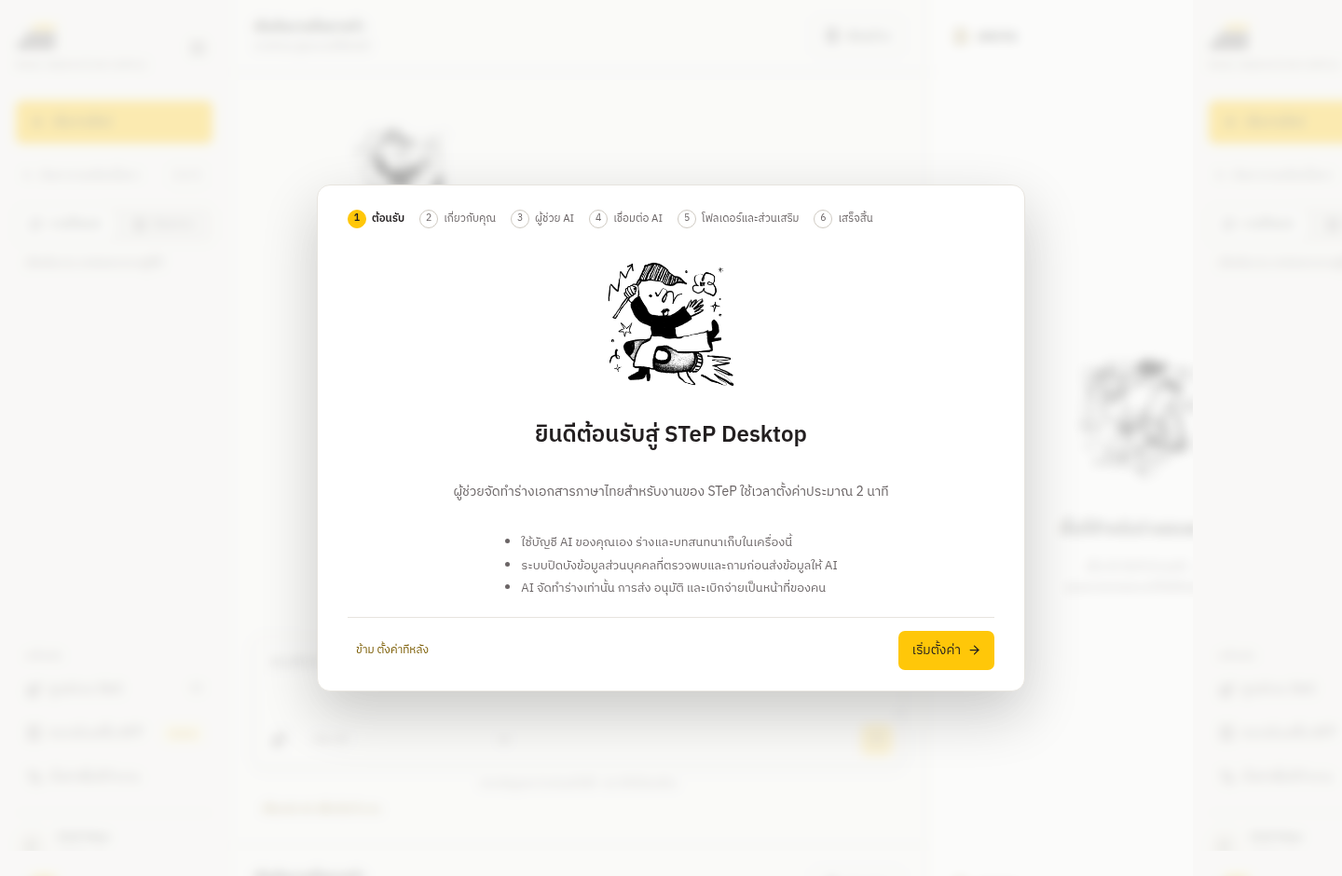
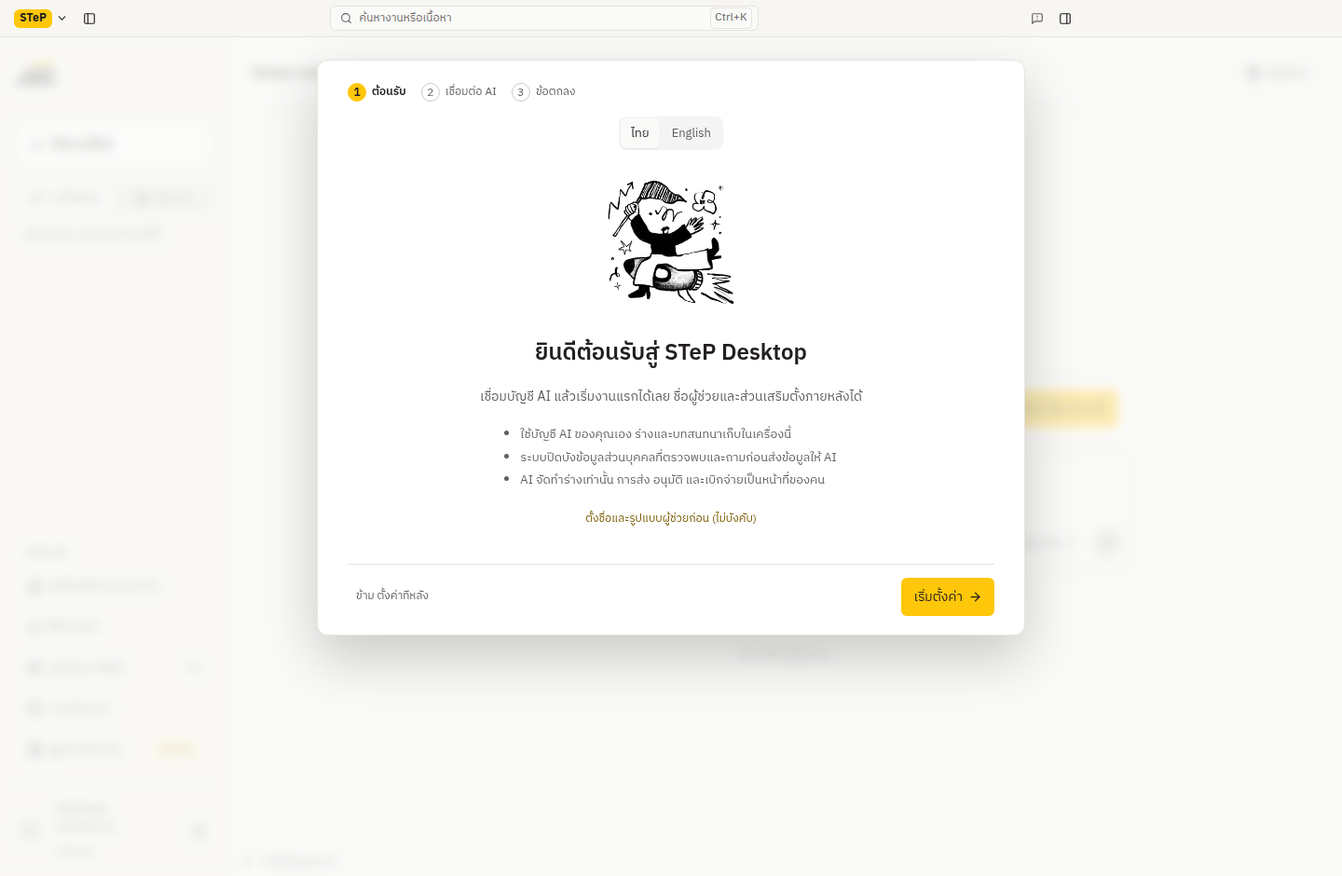
Refresh Desktop guides, release status and screenshots

diff --git a/docs/progress.md b/docs/progress.md
@@ -8,23 +8,16 @@ _Last updated: 2026-11-24_
 
 ## In flight
 
+- **Desktop README and guide refresh (2026-11-24)**. Replaced the tracked employee screenshots with synthetic v0.6.42 captures. The employee guides now describe supported GitHub installers, Microsoft Store updates and long-task recovery. The MIS register remains the dated source extract and current revisions are checked in MIS.
+
 - **Desktop installer preflight (2026-11-24)**: GitHub Actions checks Authenticode and Defender availability, verifies the Mac app and DMG trust results, and checks the updater metadata and artifact hashes before publishing the same files. A strict run requires trusted installers on both platforms. IT can enable it once signing and an active Defender runner are available.
 
 - **Windows MSIX for Microsoft Store (2026-11-24)**. The Windows x64 package built with the STeP Desktop Partner Center identity and passed installation, activation and synthetic legacy-profile checks. Windows App Certification Kit reported warnings. The package has been uploaded to the first Store draft. Store certification, a staff migration pilot and Entra setup for automated update submission remain open. See [Desktop distribution](desktop-development.md#windows-msix-for-microsoft-store).
 
-- **Desktop v0.6.42 prepared (2026-11-24)**: combines #402 and #403. The working line holds each label, the thinking panel keeps its stage titles, and partial headings and drafted text stay steady across tool turns. Four pencil marks follow thinking, reading, searching or tools, and writing. The changes have synthetic Electron coverage. Follow-up: verify a live Gemini run on Windows.
-
-- **Waiting marks per kind of work (2026-11-23, owner picked 1, 3, 9, 10 of ten pencil designs)**: the scribble beside the working line now follows the steady label (`src/waiting-kind.ts`): think = three pencil loops, read Skill/document = connect the dots, search/tool = inchworm, write = handwriting. Reduced motion keeps a 3x slower trace. Stacked on the flicker fix (needs its steady label). Design page: https://claude.ai/artifact/CeGFRsqKrbcvLvnUMZgfM6. Waits on the owner: review.
-- **Thinking panel and status line flicker (2026-11-23, owner report on v0.6.40; merged with the 0.6.41 "AI คิด" stages)**: while the AI prepared an answer the working line swapped "กำลังเตรียมคำตอบ" / "กำลังเขียนคำตอบ" / the tool stage within a second on every tool turn, the last stage title was hidden from both the panel and the line, a Gemini heading still arriving showed raw `**`, and the drafting mode cleared streamed words at every tool turn. Fixed in the renderer (`useSteadyLabel` holds a label 1.5 s, the panel hides the last title only while the line names it, `settledNotes`) and main (per-turn status carries `turn`). New `test/thinking-steady-smoke.mjs` records every frame in chat and drafting modes. Waits on the owner: review, then ship in the next Desktop release.
-- **Desktop v0.6.41 prepared (2026-11-23)**: combines #308, #319, #371, #399 and #400 after #396 landed. Includes durable long-task recovery, the context gauge, Antigravity quota reporting and overflow retry, immediate answer correction, AI work stages and the Windows development icon fix. Follow-up: verify the long-chat recovery and quota displays against the employee’s Antigravity client. Harness remains 0.7.7.
-
 - **"คำตอบนี้ต้องแก้" answers again and remembers (2026-11-23, owner report)**: the owner pressed "needs fixing" on a generated AI prompt, asked again and got the same prompt. Cause: the note only became a pending memory proposal (used nowhere until confirmed in the memory page), no new answer was written, and the AI was never told the answer was rejected. Now the dialog's button is "แก้คำตอบ": the AI answers again at once in the same task (same Skill and mode) with the note, and with "จำไว้ใช้กับคำขอแบบนี้ครั้งถัดไป" (ticked by default) the note is saved as a confirmed feedback memory that names the request it corrects (a request with personal data is left out; the note alone is kept). Older callers without `remember` keep the proposal path. The title bar also has a "แจ้งปัญหา / เสนอแนะ" icon beside the right-panel toggle. Tested: `phase3-memory-sessions.test.ts`, `chat-smoke`. Not changed: lesson drafting still needs confirmation in the lesson inbox; background review still every 10 turns. Waits on the owner: review with the before/after screenshots, then a real-model check that the second answer actually follows the note.
 
-
-- **Desktop v0.6.40 prepared (2026-11-23, owner asked to release)**: ships #397 (verified organization account at the Skill/feedback intake). Harness remains 0.7.7. Publish with `desktop-release.yml` on `main` with `publish=true` after merge and green post-merge CI. After staff update, the owner deploys the new Apps Script version (code and permission already in place).
 - **Skill/feedback intake requires a verified organization account (2026-11-23, owner asked after the Codex PR review)**: the Apps Script intake (`scripts/skill-intake`) was public ("Anyone"), trusted the typed sender name and had only a shared 200/day quota, so outsiders could spoof senders or use the quota up. Now Desktop sends the Google ID token of the connected organization account (`google.organizationIdentity`, same as "AI ขององค์กร") and refuses to send without one (`*_SUBMIT_SIGN_IN`); the script verifies it with Google tokeninfo (client ID, `hd` step.cmu.ac.th, verified email, expiry) after free local checks, records the verified address (feedback only when the name is sent), keeps per-account daily quotas (5 Skills / 20 feedback) under a salted hash, caps tokeninfo calls, validates findings and writes every cell as text. `appsscript.json` pins scopes. Tested with stand-ins only (`test/skill-intake.test.js`, `desktop/test/skill-submit.test.ts`). **Waits on the owner**: after the next Desktop release, paste `Code.gs` + `appsscript.json`, run one function to grant "external request", deploy a new version (README "อัปเดตเป็นรุ่นที่ยืนยันบัญชี"); older apps cannot send after that. Recommended: move the sheet to a dedicated intake account. Not yet tried against real Google.
 - **Developer knowledge maintenance (2026-11-23)**. Added a developer-side Skill and an offline metadata preview for the MIS, Gmail and Sheets intake design. Review packets surface revision conflicts, withdrawals and partial reads before publication. The developer Skill records the source audit and approval flow. IT needs to verify Google/MIS identities, live settings and audit logs before configuring connectors. Snapshot builder added the same day (owner asked): `snapshot.mjs --mis` reads an MIS extract or the published register (extract → register round-trips to the same snapshot), and `library-check.mjs` compares the 13 transcribed QP/QM documents with MIS REV and dates (all match the 2026-10-10 register). Gmail and Sheets readers are still not built (`not-configured`).
-- **Desktop v0.6.39 prepared (2026-11-22, owner asked to merge all and release)**: one combined PR merges #391 (expired Claude sign-in), #393 (BV travel reason), #392 (case chat picker/attachments, case delete, quieter claims page), #394 (claims-case-expert Skill, draft pending AFP) and the OpenCode phases #387–#390 (tool repair, checkpoint compaction, in-loop answer review, native tool calls behind `nativeToolCalls`, off). Harness remains 0.7.7. Publish with `desktop-release.yml` on `main` with `publish=true` after merge and green post-merge CI.
 - **Claims page redesign and case delete (2026-11-22, owner asked)**: the owner found no way to delete a claims case and the side panels too wordy. A case row now has a delete icon on hover/focus with an inline confirm; `receiptPacketDelete` removes the case, its app-owned file copies and its case chat (refused while that chat runs; originals untouched, covered in `receipt-packet.test.ts` and `claim-case-chat-smoke`). The case list is one line per case (name, category mark, file count), the case name edits in place at the chat head with a check for saved, and the three steps are one underlined tab row. Smokes: claim-case-chat, case-files, claim-interview, afp-evidence, receipt-packet, afp-payment-voucher, receipt-handoff. Waits on owner review with the before/after screenshots.
 - **Case chat AI picker and attachments (2026-11-22, owner asked)**: the ผู้ช่วยเบิกจ่าย case chat has its own account/model/effort picker (per case session, `src/case-ai-picker.tsx`) and attaches files and pictures for the AI through the normal `attach` checks; the host no longer refuses attachments on claim-case sends. Tested with `claim-case-chat-smoke` (model switch reaches the AI, attached text goes with the question). Not yet tried with a real provider or a picture on a vision model.
 - **เหตุผลการเดินทาง หมวด BV (2026-11-22, owner asked)**: งานพัสดุ AFP ประกาศ 20 พ.ย. 2569 ขอให้เหตุผลการเดินทางหมวด BV ครบ 5 ส่วน (ว 119 จ้างเหมารถตู้). New registered document `docs/knowledge/afp-bv-travel-reason.md`; the claims interview asks the five parts for a vehicle hire and drafts the reason into the purpose; the details step and the export step warn on a short or incomplete reason (export still allowed); the case chat rule asks missing parts. Waits on the owner: review, then Webapp pack re-import (`harness:import`) so the Webapp knowledge gets the document. Open question for AFP: three of AFP's own five examples lack a part (no route in 1, no date in 4–5); the app flags those parts.
@@ -39,7 +32,11 @@ _Last updated: 2026-11-24_
 
 ## Latest release
 
-- **Desktop v0.6.38 prepared (2026-11-20, owner asked to merge #384 and release)**: ships merged #372 (long-task reliability), #379–#383 (receipt finance phase 1, claim interview, packet attach fixes, ผู้ช่วยเบิกจ่าย case chat, several files read and typed in the case chat) and #384 (optional Typhoon OCR V2 0.8B for Thai scans, numbers checked by PaddleOCR). Harness remains 0.7.7. Publish with `desktop-release.yml` on `main` with `publish=true` after this PR and post-merge CI pass; verify both update feeds and installer digests. Open after release: the ~1 GB Typhoon install and speed on a real Windows staff PC.
+- **Desktop v0.6.42 published (2026-11-24)**. Waiting marks follow thinking, reading, searching or writing. Status labels and streamed draft text stay steady across tool turns. Synthetic Windows and macOS checks passed. A live Gemini run on Windows remains open. [Release](https://github.com/iisara555/STeP-AI-Harness/releases/tag/desktop-v0.6.42)
+- **Desktop v0.6.41 published (2026-11-23)**. Adds long-task recovery, the context gauge, Antigravity quota reporting and overflow retry, immediate answer correction and the Windows development icon fix. Live Antigravity checks on the employee PC remain open. [Release](https://github.com/iisara555/STeP-AI-Harness/releases/tag/desktop-v0.6.41)
+- **Desktop v0.6.40 published (2026-11-23)**. The feedback and Skill intake requires a verified organization account. Deployment of the Apps Script and a live Google check are tracked above. [Release](https://github.com/iisara555/STeP-AI-Harness/releases/tag/desktop-v0.6.40)
+- **Desktop v0.6.39 published (2026-11-22)**. Includes AFP case chat and attachments, the BV travel-reason guide, the draft case Skill, Claude sign-in recovery and OpenCode phases 1–4. Live model and AFP review are tracked above. [Release](https://github.com/iisara555/STeP-AI-Harness/releases/tag/desktop-v0.6.39)
+- **Desktop v0.6.38 published (2026-11-20)**. Includes long-task reliability work, the AFP receipt flow and optional Typhoon OCR. The optional OCR setup and its performance on a staff Windows PC remain open. [Release](https://github.com/iisara555/STeP-AI-Harness/releases/tag/desktop-v0.6.38)
 
 - **Desktop v0.6.37 prepared (2026-11-18, owner requested release)**: ships merged #375 (compact and retry long full-context Antigravity messages) and #376 (document-form filling examples). Harness remains 0.7.7. Publish with the Desktop installer workflow from `main` after this release PR and post-merge CI pass. Verify both update feeds and published installer digests. Live Antigravity reproduction on the employee device remains open.
 
@@ -113,7 +110,7 @@ _Last updated: 2026-11-24_
 - **Desktop v0.6.2** (2026-10-13) — combined release of PR #158 (สื่อภายใน page, copy-only, with layout preview) and PR #154 (icon rail sidebar with animated icons, retired near-copy avatars, OCR busy reply). Windows x64 and macOS Apple silicon; Harness **0.7.7**.
 - **Desktop v0.5.39** (2026-10-11) — published from PR #135 (`7f33d12`): managed/local Dev mode gates for Claude plan access, bounded cold fallback and idle prewarming cleanup. Windows x64 and macOS Apple silicon installers are published; Harness **0.7.7**. Intel Macs stay on 0.5.35. The audit fixes below are pull requests and are not in this release.
 
-## Current release and remaining acceptance (2026-11-03)
+## Historical acceptance record (2026-11-03)
 
 The owner-authorized integration and publication are complete. TOR #298 and integration #302 preserve the heads of #297 (REA), #299 (documents from chat), #300 (chat/clipboard) and #301 (Windows startup). H1-H3 are included in published 0.6.27. Historical implementation notes below are not a list of unstarted tasks.
 

diff --git a/docs/README.md b/docs/README.md
@@ -19,6 +19,8 @@
 | เอกสาร | ใช้เมื่อ |
 | --- | --- |
 | [คู่มือ STeP Desktop](../desktop/README.md) | ติดตั้ง เชื่อมต่อ AI ทำงาน อัปเดต และถอนการติดตั้ง |
+| [การแจกแอปและตรวจตัวติดตั้ง](desktop-development.md#distribution) | ผู้ดูแลสร้าง EXE, DMG หรือ MSIX ตรวจลายเซ็น และเตรียมส่ง Microsoft Store |
+| [งานยาวและการกลับมาทำต่อ](desktop-long-tasks.md) | ดูการย่อบริบทและวิธีทำงานต่อเมื่อแอปหรือบริการ AI สะดุด |
 | [คู่มือการใช้งาน STeP AI สำหรับพนักงาน](employee-guide.md) | ใช้ STeP Skills ผ่านโปรแกรม AI ที่มีอยู่ |
 | [ติดตั้งโปรแกรม AI](ai-app-setup.md) | เครื่องยังไม่มีโปรแกรม AI สำหรับเปิดโฟลเดอร์ STeP AI |
 | [เชื่อม Gemini ผ่าน Antigravity](antigravity-connect-th.md) | เชื่อมบัญชี Google ใน STeP Desktop |
@@ -27,7 +29,7 @@
 | [กล่องบทเรียน (Learning Inbox)](desktop-learning.md) | ตรวจและอนุมัติบทเรียนที่ AI เสนอจากงานจริง |
 | [ตรวจไฟล์ก่อนแนบให้ AI](privacy-preflight.md) | ตรวจข้อมูลอ่อนไหวก่อนแนบเอกสาร |
 | [STeP Desktop managed policy](desktop-policy.md) | ผู้ดูแลกำหนดบริการ AI ฟังก์ชัน และการตรวจข้อมูลให้ทั้งเครื่อง |
-| [Google Workspace connector](google-workspace-connector.md) | เชื่อม Google Workspace (เลือกใช้ แยกจากแอป) |
+| [การเชื่อม Google Workspace ใน Desktop](vault-workspace-implementation.md) | เชื่อมบัญชีงาน เลือกบริการ และดูสิทธิ์ที่ผู้ดูแลตั้ง |
 | [Pilot 22 กันยายน 2569](pilot-runbook.md), [Pilot Operations](pilot-operations.md) | ดำเนินการทดลองใช้กับพนักงาน |
 | [เริ่ม Demo AFP](afp-demo-start.md), [คู่มือเดิน Demo](afp-demo-run-sheet.md), [แนวคิดสาธิต](afp-demo-concepts.md), [ทะเบียนแหล่งอ้างอิงสาธิต](afp-demo-source-register.md) | สาธิตงาน AFP ด้วยข้อมูลตัวอย่าง |
 
@@ -53,11 +55,11 @@
 
 **STeP Desktop**
 
-- [แบบระบบตรวจใบเสร็จใหม่](receipt-review-redesign.md) — ต้นแบบ 3 คำตอบ, preprocessing/grouping และเกณฑ์ benchmark; [บริการ Gemini OCR กลาง](../gateway/receipt/README.md) เพิ่มใน source แล้ว ยังไม่ deploy
+- [แบบระบบตรวจใบเสร็จใหม่](receipt-review-redesign.md) — ต้นแบบ 3 คำตอบ, preprocessing/grouping และเกณฑ์ benchmark; [บริการ Gemini OCR กลาง](../gateway/receipt/README.md) เอกสารตั้งค่าบริการและตรวจความพร้อมก่อนเปิดใช้
 - [Vault and Google Workspace implementation](vault-workspace-implementation.md) - employee flow, managed configuration, operation limits, local verification and remaining live/packaged gates
 
-- [Vault design handoff — username/password และ API key](desktop-vault-design.md) — แบบเสนอและแผน P0–P3 สำหรับพัฒนาต่อ ยังไม่มีฟีเจอร์ในแอป
-- [Employee Google Workspace connection and service access](desktop-google-workspace-design.md) - account connection, Google service capabilities, OAuth/admin controls and G0-G3 acceptance; design only
+- [Vault design handoff — username/password และ API key](desktop-vault-design.md) — บันทึกแบบเสนอและแผน P0–P3 ข้อมูลการใช้งานปัจจุบันอยู่ในคู่มือการติดตั้ง Vault ด้านบน
+- [Employee Google Workspace connection and service access](desktop-google-workspace-design.md) - แบบเสนอและเกณฑ์ทดสอบ G0–G3 ดูการใช้งานที่ส่งมอบในคู่มือการเชื่อม Google Workspace ด้านบน
 - [Governed tool loop](desktop-tool-loop.md), [Native workflows](desktop-workflows.md), [Context, memory and sessions](desktop-context-memory.md)
 - [Coordinator, scheduled drafts, MCP and autopilot](desktop-automation.md), [Agent Browser](desktop-browser-agent.md), [Interface language](desktop-i18n.md)
 - [Providers, command surfaces and LINE gateway](desktop-phase5.md), [Scoped consent](desktop-phase6.md), [Security review 2026-10-06](desktop-security-review.md)
@@ -67,7 +69,7 @@
 
 - [Pilot 30 งาน](pilot-30-task-test.md), [ผลฝั่งโมเดลรอบ 1](pilot-30-model-side-results-2026-09-19.md), [Pilot Readiness Audit](pilot-readiness-audit.md)
 - [Tool usability evaluation](tool-usability-eval.md), [ประเมิน Office Skills ด้วย ChatGPT/Codex](cloud-model-eval-setup.md)
-- [UX audit 2026-10-01](ux-audit-2026-10-01.md), [ผลแก้ UX audit](ux-audit-fixes-2026-10-01.md), [UI review 0.5.31](desktop-ui-review-0.5.31.md), [Runtime structure review](refactor-review.md)
+- [UX audit 2026-10-01](ux-audit-2026-10-01.md), [ผลแก้ UX audit](ux-audit-fixes-2026-10-01.md), [บันทึกการตรวจ UI รุ่น 0.5.31](desktop-ui-review-0.5.31.md), [Runtime structure review](refactor-review.md)
 - [Graphify developer workflow](graphify-development.md), [OpenHarness handoff](openharness-handoff.md), [OpenHarness parity](openharness-parity.md)
 
 **ลิขสิทธิ์ของบุคคลที่สาม:** [ภาพตราครุฑ](third-party-notices/thai-garuda.md), [Claude Thai Skills (MIT)](third-party-notices/claude-thai-skills-MIT.txt), [โลโก้ผู้ให้บริการ AI (Lobe Icons, MIT)](third-party-notices/lobe-icons-MIT.txt)

diff --git a/SUPPORT.md b/SUPPORT.md
@@ -1,5 +1,14 @@
 # STeP AI Support
 
+## STeP Desktop
+
+- **แจ้งปัญหาจากในแอป** เปิด **ช่วยเหลือ → แจ้งปัญหา / เสนอแนะ** เมื่อฟังก์ชันนี้เปิดไว้และเข้าสู่ระบบบัญชีงานแล้ว หรือติดต่อผู้ประสานงานทีมผ่านช่องทางภายใน
+- **ติดตั้งหรืออัปเดตไม่สำเร็จ** ดู [วิธีติดตั้งและอัปเดตตามช่องทาง](desktop/README.md#เริ่มใช้งาน) ส่งชื่อไฟล์ รุ่นแอป ระบบปฏิบัติการ และข้อความที่พบให้ผู้ประสานงานทีม
+- **Windows แสดงคำเตือนหรือไฟล์หาย** เทียบกับลิงก์ที่ผู้ดูแลแชร์ หากไฟล์หาย ให้เปิด **Windows Security → Virus & threat protection → Protection history** แล้วแจ้งชื่อรายการที่ตรวจพบให้ IT
+- **Mac แจ้งว่าตรวจสอบผู้พัฒนาไม่ได้** เทียบไฟล์กับลิงก์ที่ผู้ดูแลแชร์และอ่าน **อ่านก่อนเปิดครั้งแรก.html** ใน DMG ของรุ่นที่ใช้ หากข้อความต่างจากคู่มือ ให้แจ้งผู้ประสานงานทีม
+
+## STeP Skills และ Harness
+
 **สถานะ:** ใช้งานได้ตั้งแต่วันแรกของ Pilot
 
 **ผู้ดูแลกลาง:** ยังไม่ได้แต่งตั้ง
@@ -30,7 +39,7 @@
 ถ้าเปิด Terminal ได้ ใช้ทางลัดนี้แทนได้ โดยเปลี่ยน path ให้ตรงกับที่แตกไฟล์ไว้:
 
 ```text
-xattr -dr com.apple.quarantine ~/Downloads/STeP-AI-Pilot-v0.7.6
+xattr -dr com.apple.quarantine ~/Downloads/STeP-AI-Pilot-v0.7.7
 ```
 
 คำสั่งนี้ลบเฉพาะแฟล็ก quarantine ของไฟล์ในโฟลเดอร์ชุดติดตั้ง ไม่ได้ติดตั้งอะไรเพิ่ม
@@ -50,7 +59,7 @@ Apple ถอดวิธีนี้ออกตั้งแต่ macOS 15 (Seq
 
 1. ภาพหน้าจอข้อความผิดพลาด
 2. ระบบปฏิบัติการ: Windows หรือ macOS
-3. รุ่น STeP AI ที่กำลังติดตั้ง เช่น `v0.7.6`
+3. รุ่น STeP AI ที่กำลังติดตั้ง เช่น `v0.7.7`
 4. ขั้นตอนที่ทำก่อนเกิดปัญหา 1–2 บรรทัด
 5. ถ้าระบบเปิดได้ ให้แนบผลจาก `step-ai doctor --employee`
 

diff --git a/docs/knowledge/README.md b/docs/knowledge/README.md
@@ -20,7 +20,7 @@
 | การเงินและพัสดุ (AFP) | [แนวปฏิบัติงาน AFP](afp-operational-circulars.md) | Lead Time, หมวดค่าใช้จ่าย, E-Signature |
 | | [ลำดับชั้นระเบียบการเงินและพัสดุ](afp-regulation-hierarchy.md) | ระเบียบใดใช้ก่อนหลัง (ฉบับทำงาน ไม่ใช่ตัวระเบียบ) |
 | | ระเบียบปฏิบัติงาน AFP | [QP-AF-001](qp-af-001.md) จัดซื้อจัดจ้าง · [QP-AF-002](qp-af-002.md) ตรวจสอบและจำหน่ายพัสดุ · [QP-AF-003](qp-af-003.md) ยืมเงินและสำรองจ่าย · [QP-AF-004](qp-af-004.md) จ่ายเงิน |
-| ระบบคุณภาพ (ISO 9001) | [ทะเบียนเอกสารระบบคุณภาพ ISO จาก STeP MIS](mis-iso-document-register.md) | เลขที่ REV วันที่บังคับใช้ และสถานะของ QM / QP / WI / FM / SD ทุกทีม (สร้างด้วย `scripts/generate-mis-iso-register.mjs`) |
+| ระบบคุณภาพ (ISO 9001) | [ทะเบียนเอกสารระบบคุณภาพ ISO จาก STeP MIS](mis-iso-document-register.md) | ภาพสถานะจาก MIS ณ 10 ต.ค. 2569 แสดง REV วันที่บังคับใช้ และสถานะของ QM / QP / WI / FM / SD ให้ตรวจฉบับที่ใช้จริงใน MIS |
 | | [ทะเบียนเอกสารระบบคุณภาพ ทีม CC](cc-iso-document-register.md) | รหัสเอกสาร QP / WI / FM ของทีม CC และแบบฟอร์มที่ยกเลิก |
 | | [Master Document List ฉบับทำงาน](qms-working-master-list.md) | ตัวชี้ไปทะเบียน MIS และ QP ที่ Skill อ้างอิง |
 | | [แผนที่ ISO 9001:2015 กับเอกสาร STeP](qms-working-reference.md) | แผนที่ข้อกำหนด ISO ไปยังเอกสาร STeP (ใช้คู่กับคู่มือคุณภาพ) |

diff --git a/docs/employee-guide.md b/docs/employee-guide.md
@@ -1,6 +1,6 @@
 # คู่มือการใช้งาน STeP AI สำหรับพนักงาน
 
-เอกสารนี้เป็นคู่มือฉบับเต็มสำหรับพนักงานที่ติดตั้ง STeP AI แล้ว หากยังไม่ได้ติดตั้ง ให้เริ่มจาก [README.md](../README.md) หรือ [START-HERE.md](../START-HERE.md)
+คู่มือนี้อธิบายการใช้ STeP Skills ผ่านโปรแกรม AI ที่องค์กรอนุมัติและเปิดโฟลเดอร์งานของ Harness สำหรับการติดตั้ง เชื่อมต่อ AI และอัปเดต **แอป STeP Desktop** ให้เริ่มจาก [คู่มือ STeP Desktop](../desktop/README.md) ถ้ายังไม่ได้ติดตั้งชุด Skills ให้เริ่มจาก [START-HERE.md](../START-HERE.md)
 
 ## สรุปวิธีใช้ใน 30 วินาที
 
@@ -23,7 +23,7 @@
 
 ถ้ายังไม่เชื่อมบัญชีหรือบริการยังปิด แอปจะแนะนำการเชื่อม/ติดต่อผู้ดูแล และยังอ่านข้อมูลนั้นไม่ได้ ไฟล์ Excel/PPTX ในเครื่อง บันทึกประชุมที่แนบ และคำถามระเบียบองค์กรยังใช้ Skill และแหล่งข้อมูลของงานนั้น
 
-## ติดตั้งและเปิด workspace
+## ติดตั้งชุด STeP Skills และเปิด workspace
 
 ### ดาวน์โหลด
 

diff --git a/docs/desktop-long-tasks.md b/docs/desktop-long-tasks.md
@@ -1,7 +1,6 @@
 # งานยาว เอกสาร และการเขียนโค้ดใน Desktop
 
-ส่วนนี้เป็น source ที่กำลังพัฒนา ยังไม่ใช่หลักฐานว่าอยู่ในชุดติดตั้งที่เผยแพร่แล้ว
-ใช้ระบบงานเดิมของ Desktop และนำแนวทางจาก Hermes มาปรับให้เหมาะกับงานพนักงาน
+Desktop v0.6.41 เพิ่มการเก็บสถานะงานยาว การกลับมาทำต่อ และตัวบอกปริมาณบริบท ใช้งานได้ในรุ่นที่เผยแพร่ปัจจุบัน รายละเอียดในหน้านี้ครอบคลุมการทำงานของแอปและผลทดสอบ ดูขอบเขตของแต่ละรุ่นใน [CHANGELOG](../CHANGELOG.md#desktop-v0641-2026-11-23)
 
 ## สลับคำถามกับงานเอกสาร
 
